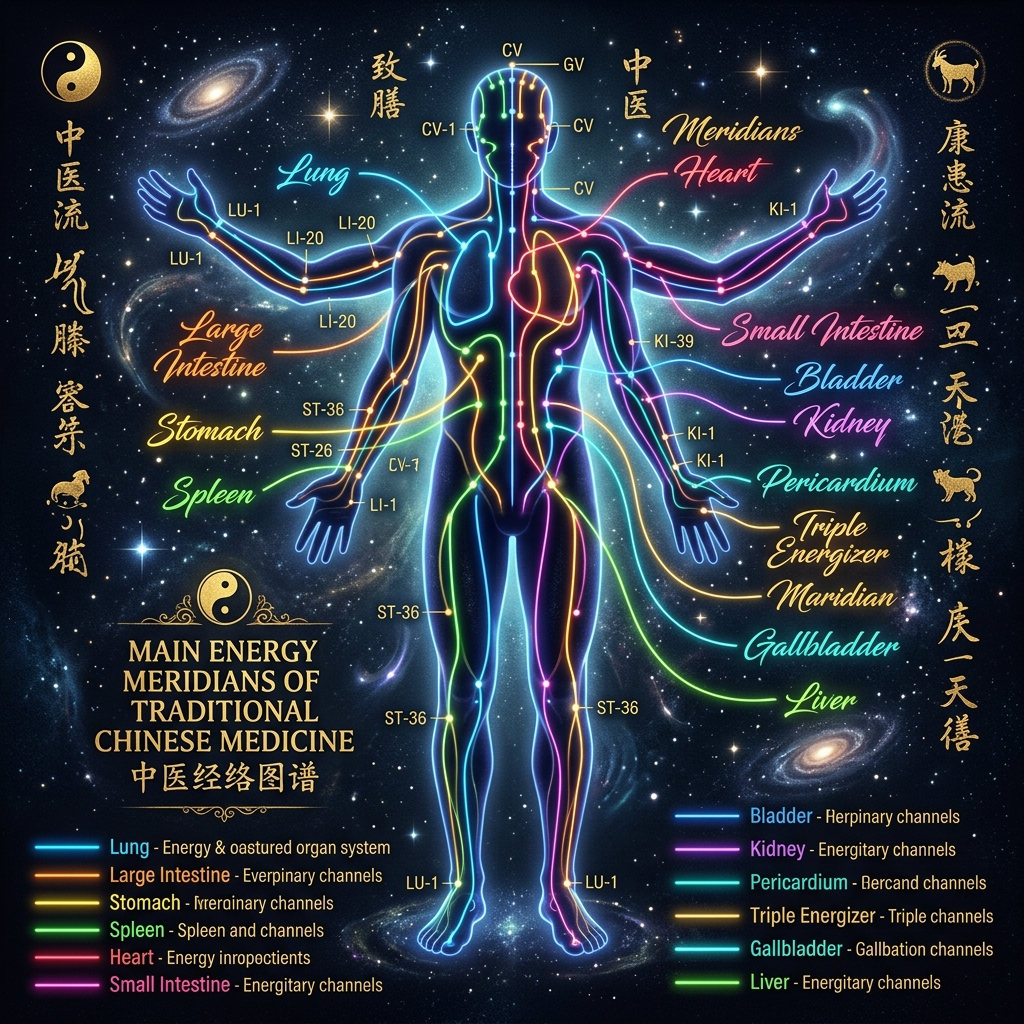
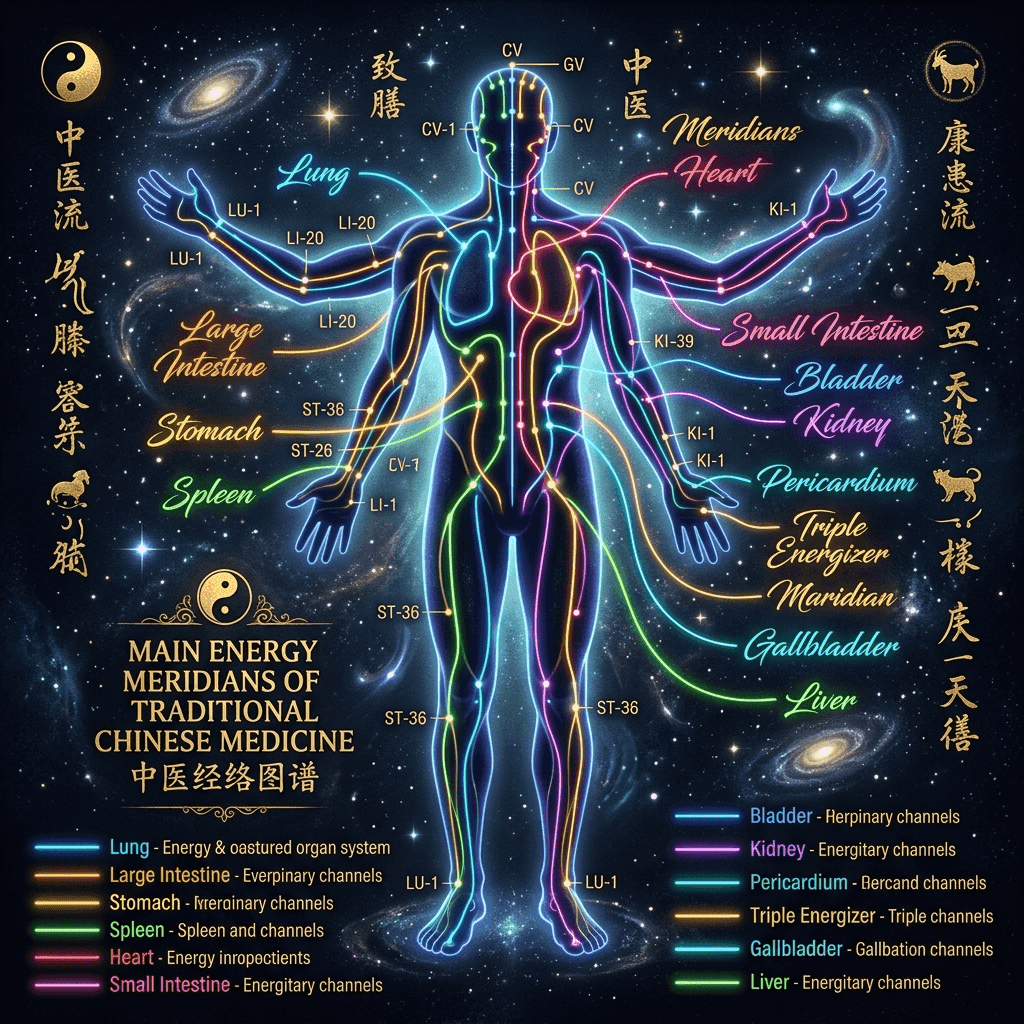
perf(media): Tum blog ve site gorselleri 150KB altina topluca optimize edildi

diff --git a/scratch/batch_optimize.js b/scratch/batch_optimize.js
@@ -1,0 +1,57 @@
+const sharp = require('sharp');
+const path = require('path');
+const fs = require('fs');
+
+const IMAGES = [
+  { file: 'mystic_kabbalah_tree.jpg', width: 1200, quality: 78, type: 'jpeg' },
+  { file: 'unconditional_love_and_expectations.jpg', width: 1200, quality: 78, type: 'jpeg' },
+  { file: 'shm.jpg', width: 1024, quality: 78, type: 'jpeg' },
+  { file: 'vocal_frequency_healing.jpg', width: 1024, quality: 78, type: 'jpeg' },
+  { file: 'mind_and_instinct.jpg', width: 1024, quality: 78, type: 'jpeg' },
+  { file: 'barefoot_nature.jpg', width: 1024, quality: 78, type: 'jpeg' },
+  { file: 'tcm_meridians.png', width: 1024, quality: 80, type: 'png' },
+  { file: 'tcm_tongue.png', width: 1024, quality: 80, type: 'png' }
+];
+
+async function main() {
+  const results = [];
+
+  for (const item of IMAGES) {
+    const filePath = path.resolve('public', item.file);
+    if (!fs.existsSync(filePath)) {
+      console.log(`Skipping: ${item.file} (not found)`);
+      continue;
+    }
+
+    const originalSize = fs.statSync(filePath).size;
+    const tempPath = path.resolve('public', `_temp_${item.file}`);
+
+    let pipeline = sharp(filePath).resize({ width: item.width, withoutEnlargement: true });
+
+    if (item.type === 'jpeg') {
+      pipeline = pipeline.jpeg({ quality: item.quality, progressive: true, mozjpeg: true });
+    } else if (item.type === 'png') {
+      pipeline = pipeline.png({ quality: item.quality, compressionLevel: 9, palette: true });
+    }
+
+    await pipeline.toFile(tempPath);
+
+    fs.unlinkSync(filePath);
+    fs.renameSync(tempPath, filePath);
+
+    const newSize = fs.statSync(filePath).size;
+    results.push({
+      file: item.file,
+      beforeKB: Math.round(originalSize / 1024),
+      afterKB: Math.round(newSize / 1024),
+      savings: `${Math.round((1 - newSize / originalSize) * 100)}%`
+    });
+  }
+
+  console.table(results);
+}
+
+main().catch(err => {
+  console.error('Batch optimization error:', err);
+  process.exit(1);
+});
